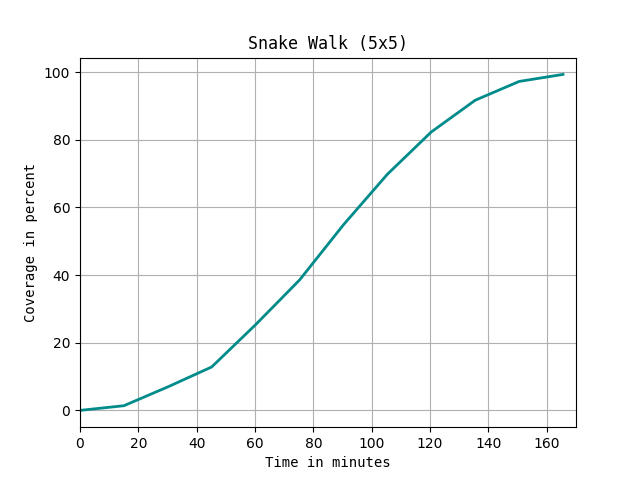
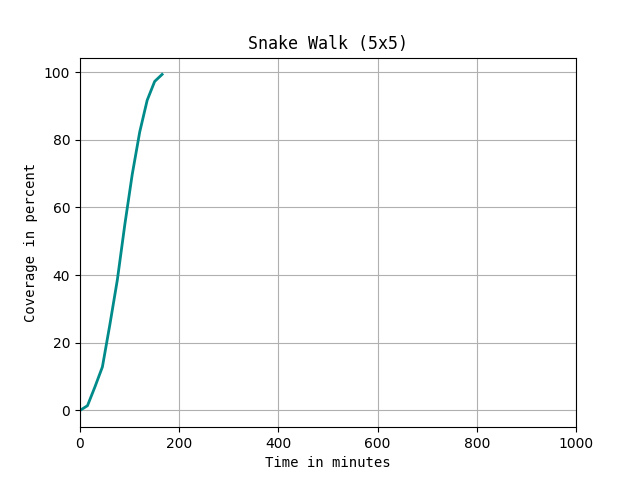
2D: can now record results withrout simulator snake walk

diff --git a/2D/src/Main.java b/2D/src/Main.java
@@ -3,56 +3,18 @@ public class Main
     public static void main(String[] args)
     {
         Simulator sim = new Simulator();
-        World world = new World(8, 8, 0.4);
+        World world = new World(5, 10, 0.4);
         Lappa lappa = new Lappa(sim, world);
         SnakeController c = new SnakeController(lappa, world);
         c.snakeWalkRecordResults();
         c.writeToFiles();
 
-        /*world.preloadWorld();
-        lappa.preloadAbsoluteMotorMovement();
-        c.randomWalkRecordResult();
-        c.writeToFiles();
-
-        world.preloadWorld();
-        lappa.preloadAbsoluteMotorMovement();
-        c.randomWalkRecordResult();
-        c.writeToFiles();
-
-        world.preloadWorld();
-        lappa.preloadAbsoluteMotorMovement();
-        c.randomWalkRecordResult();
-        c.writeToFiles();
-
-        world.preloadWorld();
-        lappa.preloadAbsoluteMotorMovement();
-        c.randomWalkRecordResult();
-        c.writeToFiles();
-
-        world.preloadWorld();
-        lappa.preloadAbsoluteMotorMovement();
-        c.randomWalkRecordResult();
-        c.writeToFiles();
-
-        world.preloadWorld();
-        lappa.preloadAbsoluteMotorMovement();
-        c.randomWalkRecordResult();
-        c.writeToFiles();
-
-        world.preloadWorld();
-        lappa.preloadAbsoluteMotorMovement();
-        c.randomWalkRecordResult();
-        c.writeToFiles();
-
-        world.preloadWorld();
-        lappa.preloadAbsoluteMotorMovement();
-        c.randomWalkRecordResult();
-        c.writeToFiles();
-
-        world.preloadWorld();
-        lappa.preloadAbsoluteMotorMovement();
-        c.randomWalkRecordResult();
-        c.writeToFiles();*/
+        /*for (int i = 1; i < 10; i++) {
+            world.preloadWorld();
+            lappa.preloadAbsoluteMotorMovement();
+            c.snakeWalkRecordResults();
+            c.writeToFiles();
+        }*/
 
         sim.stopSimulation();
     }

diff --git a/2D/src/SnakeController.java b/2D/src/SnakeController.java
@@ -38,7 +38,7 @@ public class SnakeController extends Controller{
         float turn = 0;
         int numSteps = 0;
 
-        while (!world.isCovered()) {
+        while (world.getCoveragePercentage() < 97) {
 
             double percent = world.getCoveragePercentage();
             float absAngle = lappa.getAbsoluteMotorMovement();
@@ -47,18 +47,18 @@ public class SnakeController extends Controller{
             time.add(Float.toString(t));
 
             for (int i = 0; i < (world.getWorldH() * 2); i++) {
-                lappa.stepWithoutFallingDetection(motor);
+                lappa.stepWithoutSimWithoutFallingDetection(motor);
                 numSteps++;
-                lappa.stepWithoutFallingDetection(-motor);
+                lappa.stepWithoutSimWithoutFallingDetection(-motor);
                 numSteps++;
             }
 
             if (turn % 2 == 0) {
-                lappa.stepWithoutFallingDetection(0);
-                lappa.stepWithoutFallingDetection(turnMotor);
+                lappa.stepWithoutSimWithoutFallingDetection(0);
+                lappa.stepWithoutSimWithoutFallingDetection(turnMotor);
             } else {
-                lappa.stepWithoutFallingDetection(-turnMotor);
-                lappa.stepWithoutFallingDetection(0);
+                lappa.stepWithoutSimWithoutFallingDetection(-turnMotor);
+                lappa.stepWithoutSimWithoutFallingDetection(0);
             }
             numSteps++;
             turn++;

diff --git a/2D/src/Lappa.java b/2D/src/Lappa.java
@@ -81,6 +81,14 @@ public class Lappa {
         return isFalling;
     }
 
+    public void stepWithoutSimWithoutFallingDetection(float angle) {
+        if (isRedFixed) {
+            moveChamberWithoutFallingDetection(redChamber, angle, true);
+        } else {
+            moveChamberWithoutFallingDetection(greenChamber, angle, true);
+        }
+    }
+
     public void moveChamberWithoutFallingDetection(Chamber fixed, float angle, boolean isRecordingResults) {
         Point2D nextPoint = getTargetPoint(fixed, angle, isRecordingResults);
 

diff --git a/2D-plot/snake-walk/coverageplotsnake.py b/2D-plot/snake-walk/coverageplotsnake.py
@@ -19,13 +19,13 @@ def plot_mean():
     plt.plot(time_data[0], cov_data[0], linewidth=2, color='darkcyan')
 
 def plot_labels():
-    plt.title('Snake Walk (8x8)', **mono_font)
+    plt.title('Snake Walk (5x10)', **mono_font)
     plt.xlabel("Time in minutes", **mono_font)
     plt.ylabel("Coverage in percent", **mono_font)
     plt.grid()
-    plt.savefig("graph_snake_8x8_1_run.png")
+    plt.savefig("graph_snake_5x10_1_run.png")
     plt.show()
 
-plt.xlim(right=170)
+plt.xlim(right=3000)
 plot_mean()
 plot_labels()
